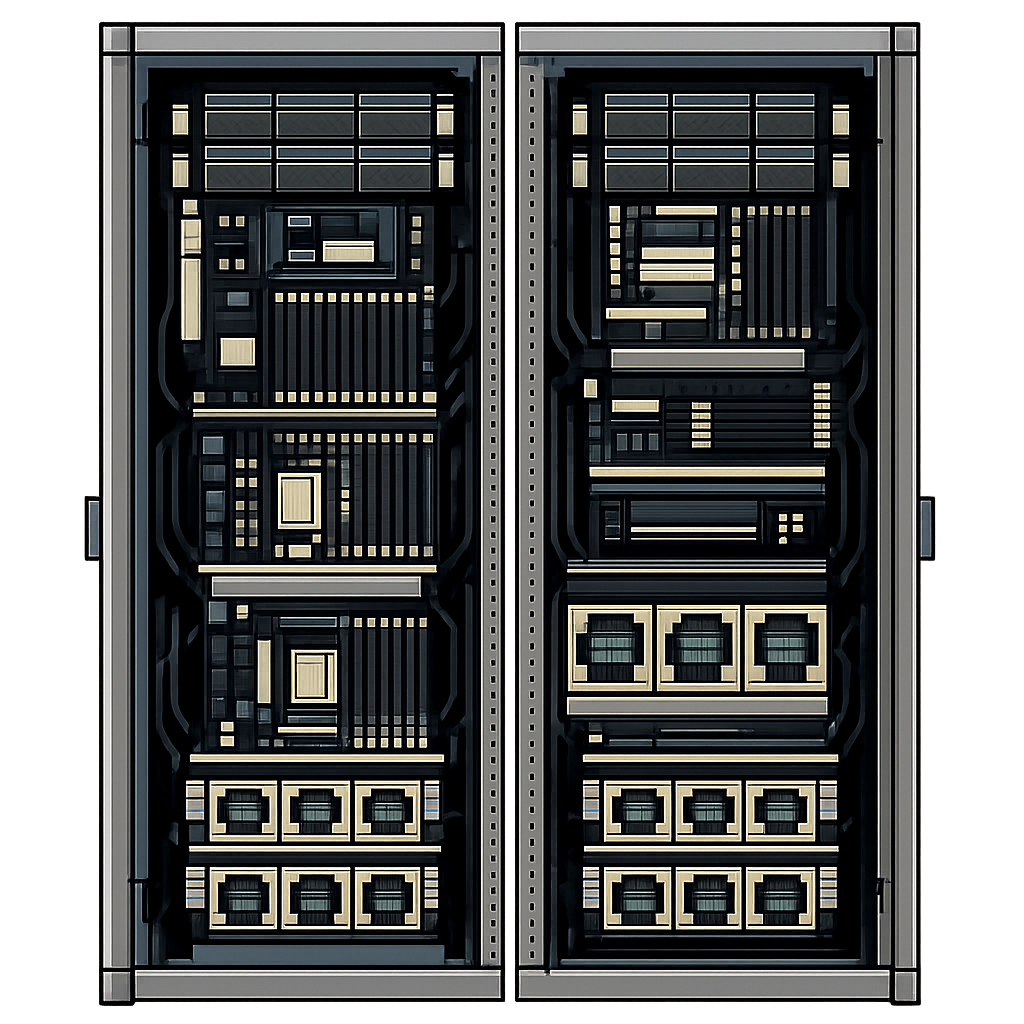
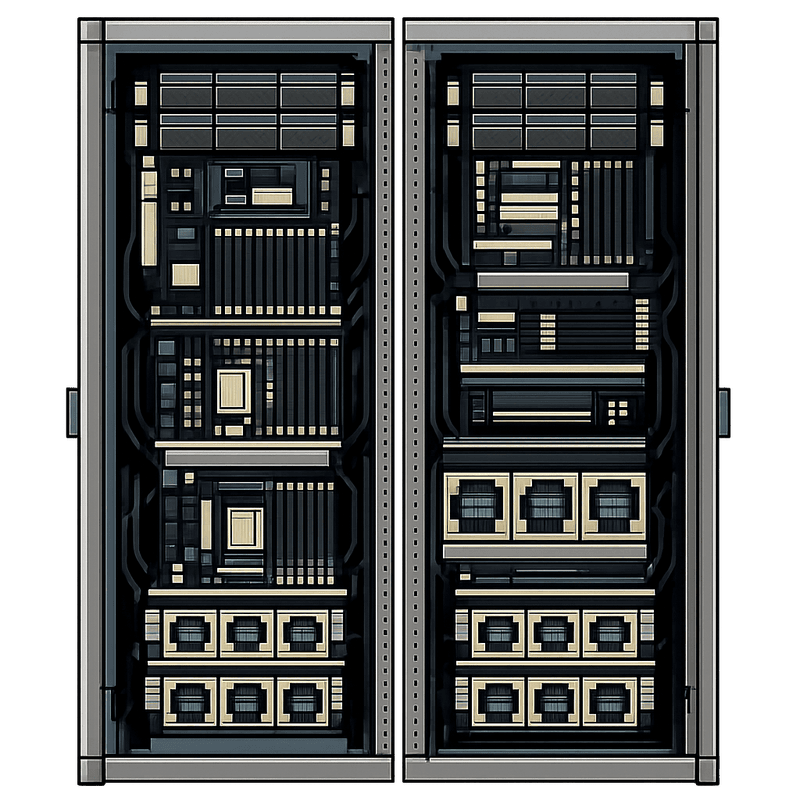
Pricing page design changes

diff --git a/src/themes/ivpn-v3/assets/js/components/SelectPaymentMethod.vue b/src/themes/ivpn-v3/assets/js/components/SelectPaymentMethod.vue
@@ -2,22 +2,22 @@
     <div>
         <div class="billing-section" v-if="!isUpgrade">
             <div class="billing-options">
-                <div class="plan-details" v-if="account.is_new">
-                    <div class="plan-name"><span class="row">{{ $t('account.selectedPlan') }}:</span>{{ productName }}</div>
-                    <div class="plan-change">
-                        <router-link :to="{ name: 'prices-' + this.language }"
-                            >{{ $t('account.changePlan') }}</router-link
-                        >
+                <div class="plan-summary" v-if="account.is_new">
+                    <div class="plan-summary__header">
+                        <div class="plan-summary__meta">
+                            <span class="plan-summary__label">{{ $t('account.selectedPlan') }}</span>
+                            <span class="plan-summary__name">{{ productName }}</span>
+                        </div>
                     </div>
-                </div>
-                <div class="plan-details" v-if="account.is_new">
-                    <div class="plan-name">
-                        <span class="row">{{ $t('account.included') }}: </span>
-                        <span class="row">[VPN - {{ account.product.max_device }} {{ $t('account.devices') }} &#10003;]</span>
-                        <span class="row">[{{ $t('pricing.dns') }} <span v-if="account.product.capabilities.has_dns">&#10003;</span><span v-else>&#10007;</span>]</span>
-                        <span class="row">[{{ $t('pricing.mailx') }} <span v-if="account.product.capabilities.has_mail">&#10003;</span><span v-else>&#10007;</span>]</span>
-                        <span class="row">[{{ $t('pricing.portmaster') }} <span v-if="account.product.capabilities.has_spn">&#10003;</span><span v-else>&#10007;</span>]</span>
+                    <div class="plan-summary__caps">
+                        <span class="plan-summary__cap">VPN &middot; {{ account.product.max_device }} {{ $t('account.devices') }}</span>
+                        <span class="plan-summary__cap" :class="{ 'plan-summary__cap--inactive': !account.product.capabilities.has_dns }">{{ $t('pricing.dns') }}</span>
+                        <span class="plan-summary__cap" :class="{ 'plan-summary__cap--inactive': !account.product.capabilities.has_mail }">{{ $t('pricing.mailx') }}</span>
+                        <span class="plan-summary__cap" :class="{ 'plan-summary__cap--inactive': !account.product.capabilities.has_spn }">{{ $t('pricing.portmaster') }}</span>
                     </div>
+                    <router-link :to="{ name: 'prices-' + this.language }" class="plan-summary__change">
+                        {{ $t('account.changePlan') }}
+                    </router-link>
                 </div>
 
                 <select-billing-cycle
@@ -204,43 +204,84 @@ export default {
     @media (max-width: $brk-mobile-xs) {
         max-width: 280px;
     }
+}
 
-    .plan-details {
+.plan-summary {
+    display: flex;
+    flex-direction: column;
+    gap: 12px;
+    margin-bottom: 8px;
+
+    &__header {
         display: flex;
+        align-items: center;
+        justify-content: space-between;
+        gap: 16px;
 
         @media (max-width: $brk-mobile) {
             flex-direction: column;
+            align-items: flex-start;
+            gap: 6px;
         }
-
-        @media (max-width: $brk-mobile) {
-        max-width: 100%;
     }
 
-        .plan-name {
-            font-family: $font-main-mono;
-            font-weight: bold;
-            font-size: 18px;
-            
-            @media (max-width: $brk-mobile) {
-                width: 100%;
-                line-height: 30px;
-                display: flex;
-                flex-wrap: wrap;
-        
-                .row:first-child  {
-                    display: inline;
-                    width:100%
-                }
-            }
-        }
+    &__meta {
+        display: flex;
+        flex-direction: column;
+        gap: 3px;
+    }
 
-        .plan-change {
-            font-size: 16px;
-            margin: 4px 5px 5px 15px;
-            @media (max-width: $brk-mobile) {
-                margin: 0;
-                line-height: 30px;
-            }
+    &__label {
+        font-family: $font-main-mono;
+        font-size: 11px;
+        font-weight: 600;
+        letter-spacing: 0.08em;
+        text-transform: uppercase;
+
+        @include light-theme((color: $grey));
+        @include dark-theme((color: rgba(255,255,255,0.45)));
+    }
+
+    &__name {
+        font-family: $font-main-mono;
+        font-size: 22px;
+        font-weight: bold;
+        line-height: 1.2;
+
+        @include light-theme((color: $dark));
+        @include dark-theme((color: $white));
+    }
+
+    &__change {
+        font-family: $font-main-mono;
+        font-size: 13px;
+        white-space: nowrap;
+    }
+
+    &__caps {
+        display: flex;
+        flex-wrap: wrap;
+        gap: 6px;
+    }
+
+    &__cap {
+        font-family: $font-main-mono;
+        font-size: 14px;
+        padding: 3px 10px;
+        border-radius: 3px;
+        white-space: nowrap;
+
+        @include light-theme((
+            background: rgba(51, 77, 102, 0.12),
+            color: $dark
+        ));
+        @include dark-theme((
+            background: rgba(255, 255, 255, 0.12),
+            color: $white
+        ));
+
+        &--inactive {
+            opacity: 0.35;
         }
     }
 }

diff --git a/src/themes/ivpn-v3/assets/js/views/Account/AddFunds.vue b/src/themes/ivpn-v3/assets/js/views/Account/AddFunds.vue
@@ -7,7 +7,10 @@
         </div>
         
         <h1>{{ title }}</h1>
-        <ul class="payment-details" v-if="$route.name != 'add-funds-voucher-' + language">
+        <div v-if="isUpgrade && $route.name != 'add-funds-voucher-' + language" class="payment-details">
+            {{ productName }} → {{ price?.name }} ⎸ ${{ price?.price }}
+        </div>
+        <ul v-else class="payment-details" v-if="$route.name != 'add-funds-voucher-' + language">
             <li>{{ productName }}</li>
             <li>{{ price?.name }}</li>
             <li>${{ price?.price }}</li>
@@ -137,6 +140,16 @@ export default {
         margin-top: 20px;
         margin-bottom: 20px;
         font-size: 38px;
+    }
+
+    div.payment-details {
+        margin-top: 38px;
+        font-family: $font-main-mono;
+        font-size: 20px;
+
+        @media (max-width: $brk-mobile) {
+            font-size: 12px;
+        }
     }
 
     ul.payment-details {

diff --git a/src/themes/ivpn-v3/assets/js/views/Account/Account.vue b/src/themes/ivpn-v3/assets/js/views/Account/Account.vue
@@ -67,7 +67,7 @@
                                 class="plan-card__btn plan-card__btn--primary"
                             >{{ $t('account.upgrade') }}</router-link>
                             <a
-                                v-if="canUpgrade"
+                                v-if="canUpgrade && account.is_active"
                                 :href="'/' + this.language + '/pricing/'"
                                 class="plan-card__compare"
                             >{{ $t('account.comparePlans') }}</a>
@@ -323,19 +323,19 @@ export default {
 // Capability pills
 .plan-cap {
     font-family: $font-main-mono;
-    font-size: 12px;
+    font-size: 14px;
     padding: 3px 10px;
     border-radius: 3px;
     white-space: nowrap;
 
     @include light-theme((
-        background: rgba(51, 77, 102, 0.08),
-        color: $grey
+        background: rgba(51, 77, 102, 0.12),
+        color: $dark
     ));
 
     @include dark-theme((
-        background: rgba(255, 255, 255, 0.08),
-        color: rgba(255, 255, 255, 0.5)
+        background: rgba(255, 255, 255, 0.12),
+        color: $white
     ));
 }
 </style>

diff --git a/src/themes/ivpn-v3/assets/js/components/ServicesSection.vue b/src/themes/ivpn-v3/assets/js/components/ServicesSection.vue
@@ -19,12 +19,14 @@
             </span>
             <span v-else>
                 <label>
-                    {{ $t('account.additionalServicesFooter') }} 
+                    {{ $t('account.additionalServicesFooterSee') }} 
                     <a :href="language + '/services/'" >{{ $t('account.additionalServicesFooterLink') }}</a>
+                    {{  $t('account.additionalServicesFooterFor') }}
                 </label>
                 <label>
                     {{ $t('account.additionalServicesFooter2') }} 
-                    <a :href="language + '/pcaas/'">{{ $t('account.additionalServicesFooter2Link') }}</a>
+                    <a :href="language + '/zla/'">{{ $t('account.additionalServicesFooter2Link') }}</a>
+                    {{ $t('account.additionalServicesFooterForDetails') }}
                 </label>
             </span>
         </div>

diff --git a/src/themes/ivpn-v3/assets/scss/components/service-item.scss b/src/themes/ivpn-v3/assets/scss/components/service-item.scss
@@ -142,7 +142,7 @@
         flex-grow: 1;
 
         @include light-theme((color: rgba(0, 0, 0, 0.55)));
-        @include dark-theme((color: rgba(255, 255, 255, 0.5)));
+        @include dark-theme((color: white, opacity: 0.7));
     }
 
     // CTA row — pinned to bottom
@@ -188,10 +188,11 @@
     margin-top: 4px;
 
     @include light-theme((color: rgba(0, 0, 0, 0.5)));
-    @include dark-theme((color: rgba(255, 255, 255, 0.4)));
+    @include dark-theme((color: white, opacity: 0.7));
 
     label {
         display: block;
+        font-size: 13px;
     }
 
     a {

diff --git a/src/themes/ivpn-v3/assets/js/components/ServiceItem.vue b/src/themes/ivpn-v3/assets/js/components/ServiceItem.vue
@@ -141,7 +141,7 @@ export default {
         },
 
         badgeLabel() {
-            if (!this.account.is_active) return this.$t('account.servicesArea.expired');
+            if (!this.account.is_active) return this.$t('account.servicesArea.unavailable');
             if (this.requiresUpgrade)    return this.$t('account.servicesArea.upgrade');
             if (this.serviceData?.is_active) return this.$t('account.servicesArea.active');
             return this.$t('account.servicesArea.available');

diff --git a/src/themes/ivpn-v3/assets/js/components/AccountFooter.vue b/src/themes/ivpn-v3/assets/js/components/AccountFooter.vue
@@ -49,6 +49,7 @@ export default {
 
 .highlight {
     font-weight: bold;
+    margin-left: 6px;
 }
 
 .footer-links {

diff --git a/src/content/es/pages/services.md b/src/content/es/pages/services.md
@@ -126,7 +126,10 @@ sections:
     plans:
       - Pro Suite
     content: >-
-      Portmaster es un firewall de aplicaciones de código abierto que te ofrece una visión clara de todo tu tráfico de red. Muestra qué aplicaciones se conectan a Internet y te permite bloquear las conexiones que no consideres confiables. Portmaster opera en la capa de aplicaciones, inspeccionando cada conexión para identificar el proceso de software exacto responsable. Este enfoque proporciona un contexto más profundo que la mayoría de los firewalls, permitiéndote definir políticas de filtrado precisas para cada aplicación. Portmaster Pro ofrece acceso opcional a la Safing Privacy Network (SPN), una alternativa a la VPN que mejora la privacidad al enrutar tu tráfico a través de una red de enrutamiento en cebolla multi-hop.
+      Portmaster es un firewall de aplicaciones de código abierto que te ofrece una visión clara de todo tu tráfico de red. Muestra qué aplicaciones se conectan a Internet y te permite bloquear las conexiones que no consideres confiables. 
+      
+
+      Portmaster opera en la capa de aplicaciones, inspeccionando cada conexión para identificar el proceso de software exacto responsable. Este enfoque proporciona un contexto más profundo que la mayoría de los firewalls, permitiéndote definir políticas de filtrado precisas para cada aplicación. Portmaster Pro ofrece acceso opcional a la Safing Privacy Network (SPN), una alternativa a la VPN que mejora la privacidad al enrutar tu tráfico a través de una red de enrutamiento en cebolla multi-hop.
   - type: single_image
     src: /images/portmaster-dashboard.png
     alt: Portmaster application firewall interface
@@ -185,7 +188,7 @@ sections:
     note: "Planes disponibles: semanal, mensual y anual."
   - type: content_with_image
     title: Stack compartimentalizado
-    image: /images/stack-diagram-dark.png
+    image: /images/stack-diagram-dark.jpg
     image_light: /images/stack-diagram-white.png
     alt: Stack Diagram
     paragraphs:

diff --git a/src/content/en/pages/services.md b/src/content/en/pages/services.md
@@ -128,6 +128,8 @@ sections:
       - Pro Suite
     content: >-
       Portmaster is an open-source application firewall that gives you a clear view of all your network traffic. It shows which apps are connecting to the internet and lets you block connections you don't trust.
+
+
       Portmaster operates at the application layer, inspecting every connection to identify the exact software process responsible for it. This approach provides deeper context than most firewalls, enabling you to define precise filtering policies for each app. Portmaster Pro offers optional access to the Safing Privacy Network (SPN), a VPN alternative that enhances privacy by routing your traffic through a multi-hop onion-routing network.
   - type: single_image
     src: /images/portmaster-dashboard.png
@@ -187,7 +189,7 @@ sections:
     note: Weekly, monthly, yearly plans available.
   - type: content_with_image
     title: Compartmentalized Stack
-    image: /images/stack-diagram-dark.png
+    image: /images/stack-diagram-dark.jpg
     image_light: /images/stack-diagram-white.png
     alt: Stack Diagram
     paragraphs: